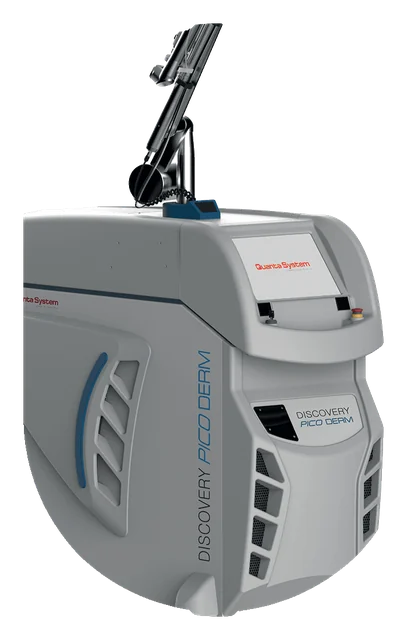
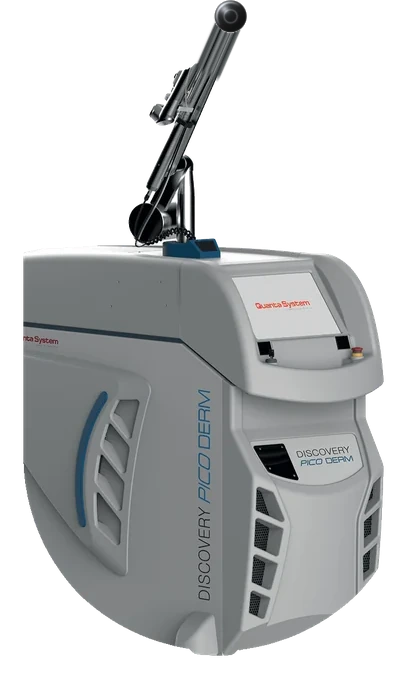
Accure arm loop and Pico Laser arm restored
The clinic icons cut both arms at the frame. The Accure sleeve loop is rebuilt
from its own texture and the Pico arm is extended to a top joint. Both stand a
little taller in the showroom.

Claude-Session: https://claude.ai/code/session_01MQWzxUoPQazVSi8froKwHa

diff --git a/js/booth.js b/js/booth.js
@@ -12,6 +12,7 @@ import { $, $$, esc, renderOf, ritzSay, reduced, sendToLine } from './core.js';
 const FACE = { 682515: 'F', 509619: 'F', 516098: 'F', 4341: 'R', 562000: 'R', 509437: 'F', 557783: 'L', 515783: 'L', 4211: 'L' };
 // machines with no readable lettering can be mirrored; the rest carry their names and stay as shot
 const FLIP_OK = new Set([509619, 516098, 515783]);   // Elite 4D's lettering is too small to read mirrored
+const TALL = { 557783: 1.12, 4341: 1.06 };              // arms rebuilt to full height, so these stand a little taller
 // boxes, vials and small hand pieces stand on slim columns at eye level instead of floor plinths
 const SMALL = new Set([395323, 395880, 395018, 557139, 746481, 746484, 746486, 746488]);
 // angles around the half circle for 1 to 5 pieces, 0 is the back middle
@@ -69,7 +70,7 @@ function room(c, b) {
     const x = 600 + 360 * Math.sin(r), z = -200 + 240 * (1 - Math.cos(r)), cos = Math.cos(r);
     const w = small ? 92 : 180, d = small ? 92 : 130;
     const h = Math.round(small ? 150 + 80 * cos : 46 + 100 * cos * cos);
-    const ih = small ? 140 : 228, iw = small ? 160 : 260;
+    const ih = Math.round((small ? 140 : 228) * (TALL[s.id] || 1)), iw = small ? 160 : 260;
     const top = FLOOR_Y - 18 - h;                       // the dais lifts everything 18
     return `<i class="cone" style="left:${x - 150}px;top:-120px;height:${top - ih + 150}px;transform:translateZ(${z}px)"></i>
       <span class="stand" style="left:${x - w / 2}px;top:${top}px;transform:translateZ(${z}px) rotateY(${(-deg * 0.55).toFixed(1)}deg)">${box({ w, d, h, cls: small ? 'col' : '', front: `<span class="plate">${esc(s.name)}</span>` })}</span>
